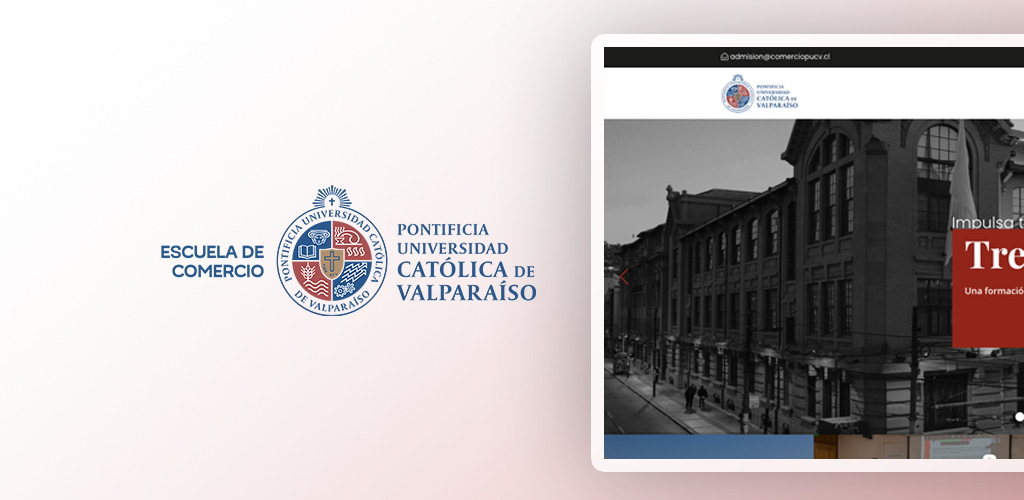
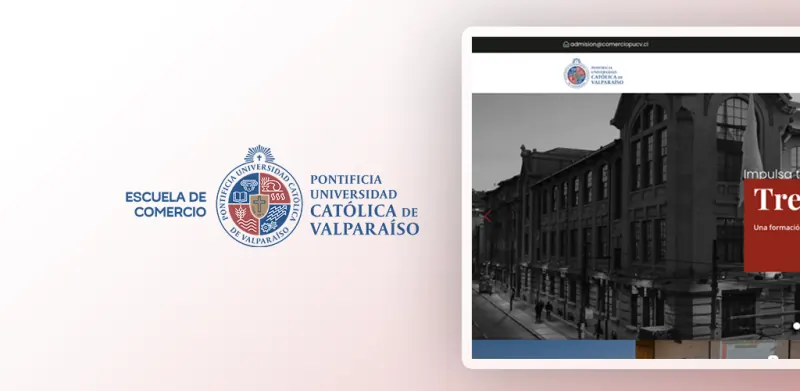
perf(images): serve project images as resized webp
Project thumbnails were 100-400 KB PNG/JPG; logo was 853px for a 40px slot.

Changed region(s): [[0.2812, 0.4604, 0.5, 0.6445], [0.1875, 0.5217, 0.2812, 0.5524]]

diff --git a/src/content/projects/TurboCOnline.md b/src/content/projects/TurboCOnline.md
@@ -3,8 +3,8 @@ title: "Turbo C Online"
 description: "Emulación web del clásico Turbo C mediante DOSBox-X y WebAssembly"
 media:
   type: "image"
-  url: "/images/turboc.png"
-  thumbnail: "/images/turboc.png"
+  url: "/images/turboc.webp"
+  thumbnail: "/images/turboc.webp"
 date: 2026-08-22
 tags: ["C", "React", "WebAssembly", "DOSBox-X"]
 featured: true

diff --git a/src/content/projects/ActibeseApp.md b/src/content/projects/ActibeseApp.md
@@ -3,8 +3,8 @@ title: "Actibese App"
 description: "PUCV Physical Education Department's app for IPAQ test"
 media: 
   type: "image"
-  url: "/images/ActibeseApp.png"
-  thumbnail: "/images/ActibeseApp.png"
+  url: "/images/ActibeseApp.webp"
+  thumbnail: "/images/ActibeseApp.webp"
 date: 2025-02-21
 tags: ["React Native", "Expo"]
 featured: true

diff --git a/src/content/projects/360video.md b/src/content/projects/360video.md
@@ -3,8 +3,8 @@ title: "360 Video Player Web"
 description: "A 360 video player made with Node.js"
 media: 
   type: "image"
-  url: "/images/360player.jpg"
-  thumbnail: "/images/360player.jpg"
+  url: "/images/360player.webp"
+  thumbnail: "/images/360player.webp"
 date: 2024-03-20
 tags: ["JavaScript"]
 featured: true

diff --git a/src/content/projects/mdtoword.md b/src/content/projects/mdtoword.md
@@ -4,8 +4,8 @@ description: "Python Module to Convert Markdown to Word"
 date: 2024-12-22
 media:
   type: "image"
-  url: "/images/mdtoword.png"
-  thumbnail: "/images/mdtoword.png"
+  url: "/images/mdtoword.webp"
+  thumbnail: "/images/mdtoword.webp"
 tags: ["Python", "Markdown", "pip"]
 featured: true
 ---

diff --git a/src/content/projects/gira.md b/src/content/projects/gira.md
@@ -3,8 +3,8 @@ title: "Gira"
 description: "Respositorio & Chatbot para Estudiantes"
 media:
   type: "image"
-  url: "/images/gira.png"
-  thumbnail: "/images/gira.png"
+  url: "/images/gira.webp"
+  thumbnail: "/images/gira.webp"
 date: 2026-03-01
 tags: ["Laravel", "React", "Neuron AI"]
 featured: true

diff --git a/src/content/projects/studilo.md b/src/content/projects/studilo.md
@@ -4,7 +4,7 @@ description: "Plataforma de tutoría inteligente con RAG y evaluación multimode
 media:
   type: "video"
   url: "/videos/studilo.mp4"
-  thumbnail: "/images/studilo.png"
+  thumbnail: "/images/studilo.webp"
 date: 2026-07-06
 tags: ["Laravel", "Laravel AI SDK"]
 featured: true

diff --git a/src/content/projects/DesarrolloDocente.md b/src/content/projects/DesarrolloDocente.md
@@ -3,8 +3,8 @@ title: "Desarrollo Docente"
 description: "a WebApp for Desarrollo Docente PUCV"
 media: 
   type: "image"
-  url: "/images/dd.png"
-  thumbnail: "/images/dd.png"
+  url: "/images/dd.webp"
+  thumbnail: "/images/dd.webp"
 date: 2025-07-28
 tags: ["Laravel"]
 featured: true

diff --git a/src/content/projects/intervee.md b/src/content/projects/intervee.md
@@ -4,7 +4,7 @@ description: "Simulador de entrevistas laborales"
 media:
   type: "video"
   url: "/videos/intervee.mp4"
-  thumbnail: "/images/intervee.jpg"
+  thumbnail: "/images/intervee.webp"
 date: 2026-04-01
 tags: ["Next.js", "Three.js", "Vercel AI SDK"]
 featured: true

diff --git a/src/content/projects/fixpert.md b/src/content/projects/fixpert.md
@@ -4,7 +4,7 @@ description: "Marketplace de servicios de oficios bajo demanda"
 media:
   type: "video"
   url: "/videos/fixpert.mp4"
-  thumbnail: "/images/fixpert.png"
+  thumbnail: "/images/fixpert.webp"
 date: 2026-06-18
 tags: ["Flutter", "FastAPI"]
 featured: true

diff --git a/src/content/projects/OllamaGUI.md b/src/content/projects/OllamaGUI.md
@@ -4,7 +4,7 @@ description: "A simple GUI for Ollama"
 media: 
   type: "video"
   url: "/videos/STG_vSnap.mp4"
-  thumbnail: "/images/ollamagui.png"
+  thumbnail: "/images/ollamagui.webp"
 date: 2024-03-20
 tags: ["CSS", "JavaScript", "WIP"]
 featured: true

diff --git a/src/content/projects/inmobiliariaJava.md b/src/content/projects/inmobiliariaJava.md
@@ -4,7 +4,7 @@ description: "a CRUD made with Java"
 media: 
   type: "video"
   url: "/videos/STG_flash.mp4"
-  thumbnail: "/images/inmobiliaria.png"
+  thumbnail: "/images/inmobiliaria.webp"
 date: 2024-03-20
 tags: ["Java", "Maven"]
 featured: true
